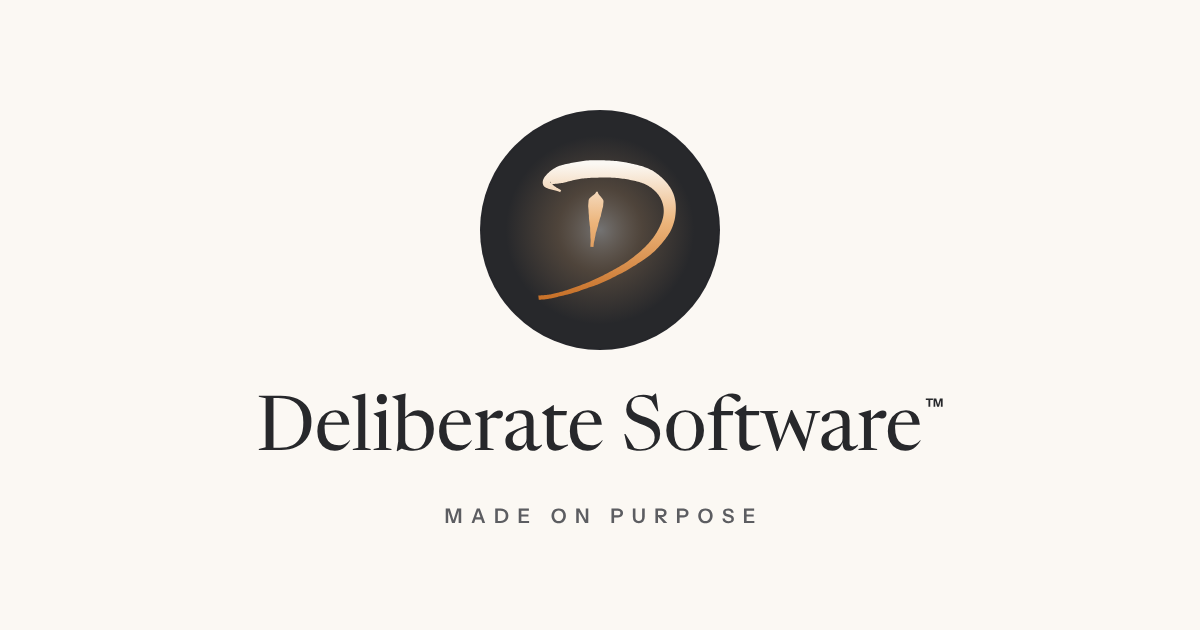
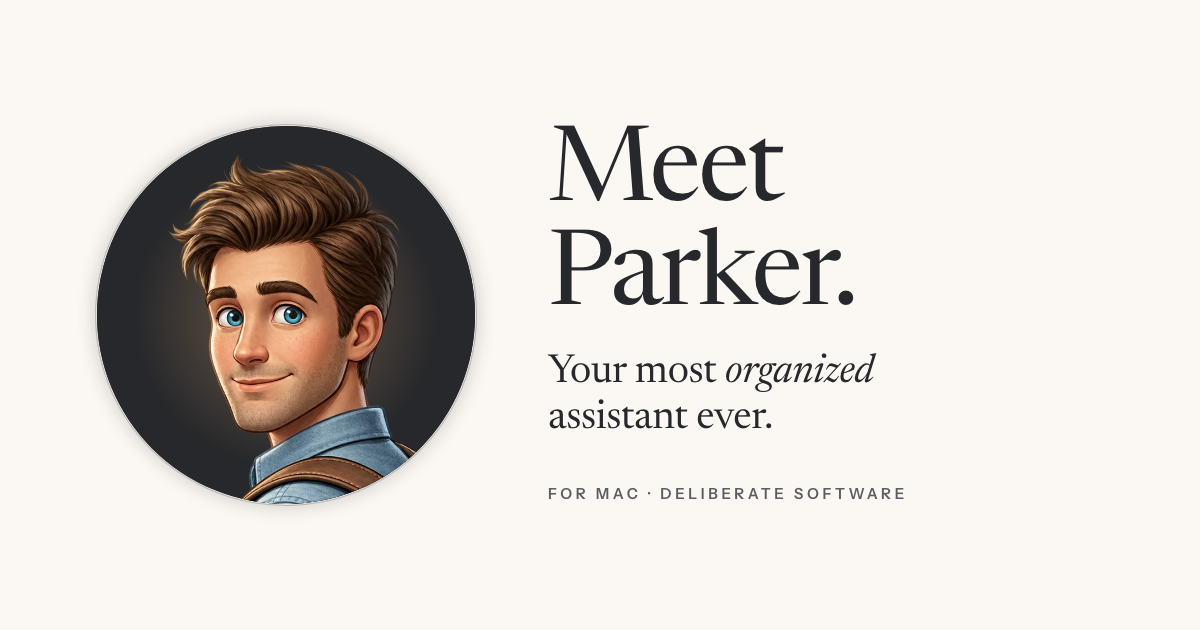
Parker's other pages, links, and social image; the roadmap page goes
Confirm and Thanks promise "you'll be first to know when Parker is ready", and Thanks says "You're in." The privacy page leads with Parker, the app: notes stay in your folder, the app can't reach the internet on its own, AI runs on your Mac, no accounts, analytics, or ads, and purchases go through Apple; then the website and waitlist, with Kit named. The 404 says Parker looked everywhere.

The roadmap page and its data are gone; the header and footer link to the home page's sections: What it does, Pricing, Questions, About. A line now sets the footer off from short pages. The social preview shows Parker's headshot with "Meet Parker." The founder's note ends "Premium just adds a little spice." The signature's source photo stays out of git.

Changed region(s): [[0.0617, 0.1508, 0.8017, 0.8143], [0.37, 0.754, 0.74, 0.8444]]

diff --git a/privacy.html b/privacy.html
@@ -1,29 +1,49 @@
 ---
 layout: default
 title: Privacy
-description: What Deliberate Software collects, and what we do with it. In plain words.
+description: What Parker and this site collect, and what we do with it. In plain words.
 permalink: /privacy/
 ---
 <section class="hero hero--short container">
-  <p class="eyebrow">Updated 13 October 2026</p>
+  <p class="eyebrow">Updated 17 October 2026</p>
   <h1 class="hero__title">Privacy, <em>plainly.</em></h1>
   <div class="prose">
-    <h2>What we collect</h2>
-    <p>Your email address, if you join the waitlist. That's it. This site has no ads, no tracking and no cookies of its own.</p>
+    <h2>Parker, the app</h2>
+    <p>Parker isn’t out yet. This is how Parker will work when it ships.</p>
 
-    <h2>Who handles it</h2>
-    <p>The waitlist runs on <a href="https://kit.com">Kit</a>, which stores your email address for us. The site is hosted on GitHub Pages, which, like any web server, sees your IP address when your browser asks for a page. Everything else is served from this site, fonts included.</p>
+    <h3>Your notes stay with you</h3>
+    <p>Every note is a Markdown file in a folder you choose, on your Mac or in your iCloud Drive. We never see them.</p>
 
-    <h2>What we do with it</h2>
-    <p>We send you news about Parker: early access, the launch, and the occasional progress note. Nothing else. We never sell, rent or share your email address.</p>
+    <h3>Nothing you write is sent to us</h3>
+    <p>Parker doesn’t connect to the internet on its own; macOS doesn’t even allow it to. The only exceptions are Apple’s: buying Premium through the App Store, and opening links you click.</p>
 
-    <h2>Leaving</h2>
-    <p>Every email has an unsubscribe link. To have your address deleted entirely, reply to any of our emails and ask. We'll do it.</p>
+    <h3>AI, on your Mac</h3>
+    <p>Parker’s AI features use Apple Intelligence, right on your Mac. Your notes are never sent elsewhere to become training data for someone else’s model.</p>
 
-    <h2>Your notes</h2>
-    <p>Parker keeps your notes as plain Markdown files, stored where you choose. Before launch we'll publish Parker's own privacy details here, including exactly what any AI feature sends, and where.</p>
+    <h3>No accounts, no analytics, no ads</h3>
+    <p>You don’t sign up for anything, and Parker doesn’t track how you use it. If you’ve chosen to share analytics with app developers in your Mac’s settings, Apple may send us anonymous crash reports.</p>
+
+    <h3>Buying Premium</h3>
+    <p>Purchases go through Apple. Apple tells Parker that you have Premium, not who you are.</p>
+
+    <h3>Protecting your notes further</h3>
+    <p>To protect your notes if your Mac is lost or stolen, turn on FileVault. For notes in iCloud Drive, Advanced Data Protection adds end-to-end encryption.</p>
+
+    <h2>This website and the waitlist</h2>
+
+    <h3>What we collect</h3>
+    <p>Your email address, if you join the waitlist. That’s it. This site has no ads, no tracking, and no cookies of its own.</p>
+
+    <h3>Who handles it</h3>
+    <p>The waitlist runs on <a href="https://kit.com">Kit</a>, which stores your email address and sends our emails. Our web host, like any, sees your IP address when your browser asks for a page. Everything else is served from this site, fonts included.</p>
+
+    <h3>What we do with it</h3>
+    <p>We send you news about Parker: early access, the launch, and the occasional progress note. Nothing else. We never sell, rent, or share your email address.</p>
+
+    <h3>Leaving</h3>
+    <p>Every email has an unsubscribe link. To have your address deleted entirely, reply to any of our emails and ask. We’ll do it.</p>
 
     <h2>Changes</h2>
-    <p>If any of this changes, we'll update this page and the date at the top.</p>
+    <p>If any of this changes, we’ll update this page and the date at the top.</p>
   </div>
 </section>

diff --git a/assets/css/site.css b/assets/css/site.css
@@ -330,46 +330,6 @@ code { font-family: ui-monospace, "SF Mono", Menlo, monospace; font-size: 0.88em
 @media (prefers-color-scheme: dark) { .view--graph img { background: var(--warm); } }
 @media (max-width: 720px) { .views { grid-template-columns: minmax(0, 1fr); } }
 
-/* ---------- roadmap ---------- */
-
-.roadmap { margin: 0; display: flex; flex-direction: column; max-width: 46em; }
-.roadmap__item {
-  display: grid; grid-template-columns: minmax(0, 15em) minmax(0, 1fr); gap: 8px 40px;
-  padding: 24px 0; border-top: 1px solid var(--line);
-}
-.roadmap__item:last-child { border-bottom: 1px solid var(--line); }
-.roadmap dt { display: flex; flex-direction: column; gap: 6px; font-size: 20px; font-weight: 600; }
-.roadmap dd { margin: 0; color: var(--muted); }
-@media (max-width: 720px) { .roadmap__item { grid-template-columns: minmax(0, 1fr); } }
-
-/* The roadmap page: its three horizons, nearest first, each as wide as the title, which sets the column's width. */
-.link { color: var(--ink); text-decoration: underline; text-underline-offset: 3px; }
-.hero--roadmap { padding-top: 96px; padding-bottom: 96px; }
-.roadmap-page { display: grid; grid-template-columns: max-content; gap: 24px; }
-.roadmap-page > * { width: 0; min-width: 100%; }
-.roadmap-page > .hero__title { width: auto; max-width: none; white-space: nowrap; }
-.roadmap-page > .hero__lead { min-width: min(100%, 34em); }
-.forecast { display: flex; flex-direction: column; gap: 24px; margin-top: 32px; }
-/* No word left alone on a line of its own. */
-.roadmap-page p, .horizon li { text-wrap: pretty; }
-.horizon {
-  display: flex; flex-direction: column; gap: 24px;
-  padding: 32px; border: 1px solid var(--line); border-radius: 12px;
-}
-.horizon__intro { display: flex; flex-direction: column; gap: 8px; }
-.horizon__intro p { font-size: 19px; color: var(--muted); }
-.horizon__columns { display: grid; grid-template-columns: repeat(2, minmax(0, 1fr)); gap: 32px; }
-.horizon__columns h3 { margin: 0 0 12px; }
-.horizon__columns ul { margin: 0; padding-left: 1.1em; display: flex; flex-direction: column; gap: 8px; }
-.horizon__columns li { color: var(--muted); }
-@media (max-width: 720px) {
-  .hero--roadmap { padding-top: 64px; padding-bottom: 64px; }
-  .roadmap-page { grid-template-columns: minmax(0, 1fr); }
-  .roadmap-page > .hero__title { white-space: normal; }
-  .horizon { padding: 24px; }
-  .horizon__columns { grid-template-columns: minmax(0, 1fr); }
-}
-
 /* ---------- founder note ---------- */
 
 .note { display: flex; flex-direction: column; gap: 20px; max-width: 34em; }
@@ -393,7 +353,9 @@ code { font-family: ui-monospace, "SF Mono", Menlo, monospace; font-size: 0.88em
 /* ---------- prose pages ---------- */
 
 .prose { display: flex; flex-direction: column; gap: 14px; max-width: 34em; }
-.prose h2 { font-size: 20px; font-weight: 600; padding-top: 18px; }
+.prose h2 { font-family: var(--serif); font-weight: 400; font-size: 30px; line-height: 1.15; letter-spacing: -0.01em; padding-top: 32px; }
+.prose h2:first-child { padding-top: 8px; }
+.prose h3 { font-size: 20px; font-weight: 600; padding-top: 14px; }
 .prose p { color: var(--muted); }
 .prose a { text-decoration: underline; text-underline-offset: 3px; color: var(--ink); }
 
@@ -436,6 +398,11 @@ code { font-family: ui-monospace, "SF Mono", Menlo, monospace; font-size: 0.88em
 .waitlist :focus-visible { outline-color: var(--paper); }
 
 /* ---------- footer ---------- */
+
+/* The same rule as under the header, so short pages end before the footer starts.
+   After the waitlist's dark band, the band's edge does that job. */
+.site-footer { border-top: 1px solid var(--line); }
+main:has(> .waitlist:last-child) + .site-footer { border-top: 0; }
 
 .footer {
   padding-top: 40px; padding-bottom: 48px;

diff --git a/index.html b/index.html
@@ -174,7 +174,7 @@ layout: default
       <p>I’m a note taker. Like you, I’ve probably tried every notes app out there, and never stuck with any of them.</p>
       <p>Notion is too cumbersome to set up. Obsidian gives me control, but no opinions, so I do all the work. Agenda came closest, with its calendar, but it still makes me file each note in one project. My notes don’t fit in one bucket.</p>
       <p>So I built Parker for myself — for a job search, actually: who I was talking to, at which companies, about which roles. I enjoyed it so much, I wanted to use it everywhere.</p>
-      <p>Parker is fast and opinionated. It takes the work out of filing your notes, gives you context for every situation, and protects your privacy. And it’s free, with Premium features as spices, never the main ingredient.</p>
+      <p>Parker is fast and opinionated. It takes the work out of filing your notes, gives you context for every situation, and protects your privacy. And it’s free. Premium just adds a little spice.</p>
       <p>I hope you enjoy using Parker as much as I do.</p>
       <div class="note__signature">
         <div class="note__signed">

diff --git a/_includes/nav.html b/_includes/nav.html
@@ -9,8 +9,9 @@
       <span class="nav__toggle-bar"></span>
     </button>
     <div class="nav__links" id="nav-links">
-      <a class="nav__link" href="{{ '/' | relative_url }}#what">How it works</a>
-      <a class="nav__link" href="{{ '/roadmap/' | relative_url }}">Roadmap</a>
+      <a class="nav__link" href="{{ '/' | relative_url }}#what">What it does</a>
+      <a class="nav__link" href="{{ '/' | relative_url }}#free">Pricing</a>
+      <a class="nav__link" href="{{ '/' | relative_url }}#questions">Questions</a>
       <a class="nav__link" href="{{ '/' | relative_url }}#about">About</a>
       <a class="button button--small" href="{{ '/' | relative_url }}#waitlist">Get on Parker’s list</a>
     </div>

diff --git a/confirm.html b/confirm.html
@@ -6,7 +6,7 @@ permalink: /confirm/
 <section class="hero hero--short container">
   <p class="eyebrow">Made on purpose</p>
   <h1 class="hero__title">Check your <em>inbox.</em></h1>
-  <p class="hero__lead">We've sent you a confirmation email. Click the link inside and you're on the waitlist. If it doesn't arrive in a few minutes, look in your spam folder.</p>
+  <p class="hero__lead">We’ve sent you a confirmation email. Click the link inside, and you’ll be first to know when Parker is ready. If it doesn’t arrive in a few minutes, look in your spam folder.</p>
   <div class="hero__actions">
     <a class="button button--outline" href="{{ '/' | relative_url }}">Back to the home page</a>
   </div>

diff --git a/thanks.html b/thanks.html
@@ -1,12 +1,12 @@
 ---
 layout: default
-title: Thanks for signing up
+title: You’re in
 permalink: /thanks/
 ---
 <section class="hero hero--short container">
-  <p class="eyebrow">You're on the list</p>
-  <h1 class="hero__title">Thanks for <em>signing up!</em></h1>
-  <p class="hero__lead">We'll be in touch as soon as we have news to share.</p>
+  <p class="eyebrow">Thanks for signing up</p>
+  <h1 class="hero__title">You’re <em>in.</em></h1>
+  <p class="hero__lead">You’ll be first to know when Parker is ready.</p>
   <div class="hero__actions">
     <a class="button button--outline" href="{{ '/' | relative_url }}">Back to the home page</a>
   </div>

diff --git a/_includes/footer.html b/_includes/footer.html
@@ -8,8 +8,9 @@
       </span>
     </a>
     <div class="footer__links">
-      <a href="{{ '/' | relative_url }}#what">How it works</a>
-      <a href="{{ '/roadmap/' | relative_url }}">Roadmap</a>
+      <a href="{{ '/' | relative_url }}#what">What it does</a>
+      <a href="{{ '/' | relative_url }}#free">Pricing</a>
+      <a href="{{ '/' | relative_url }}#questions">Questions</a>
       <a href="{{ '/' | relative_url }}#about">About</a>
       <a href="{{ '/' | relative_url }}privacy/">Privacy</a>
     </div>

diff --git a/404.html b/404.html
@@ -6,7 +6,7 @@ permalink: /404.html
 <section class="hero hero--short container">
   <p class="eyebrow">404</p>
   <h1 class="hero__title">Nothing <em>here.</em></h1>
-  <p class="hero__lead">That page doesn't exist, or it moved.</p>
+  <p class="hero__lead">Parker looked everywhere. That page doesn’t exist, or it moved.</p>
   <div class="hero__actions">
     <a class="button" href="{{ '/' | relative_url }}">Go to the home page</a>
   </div>
